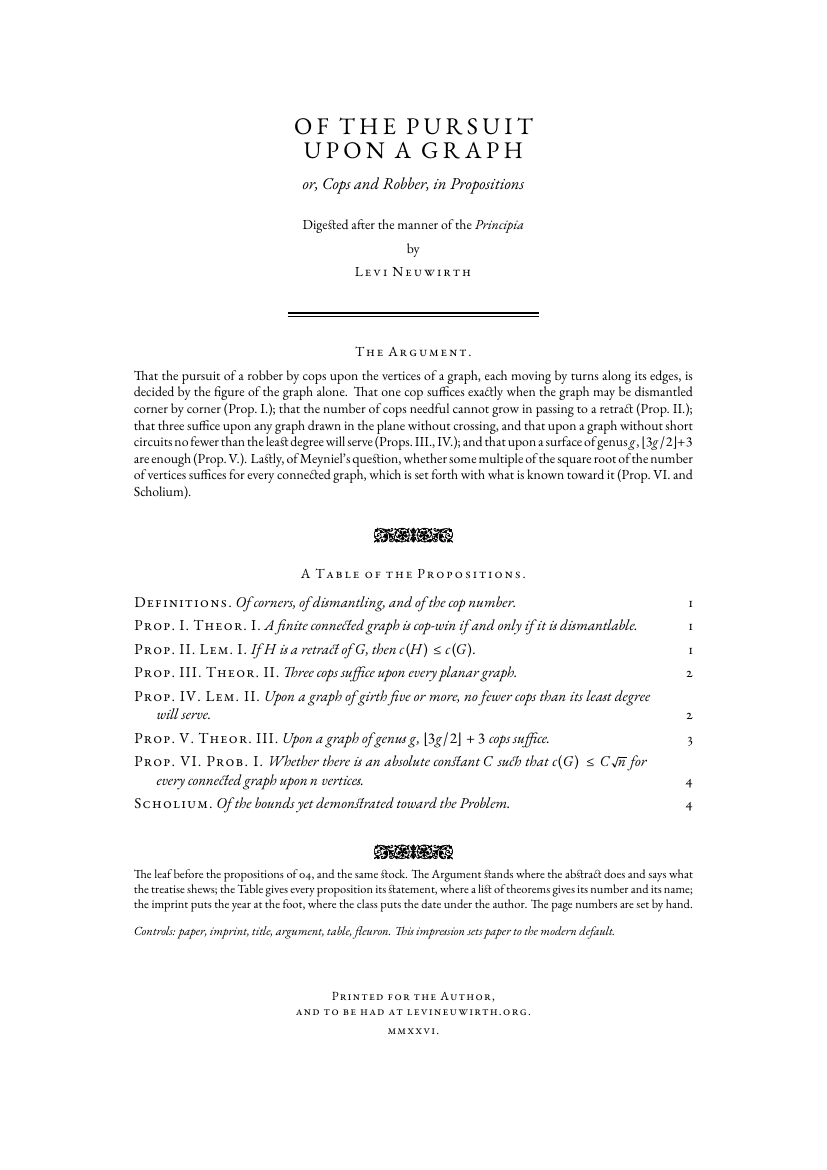
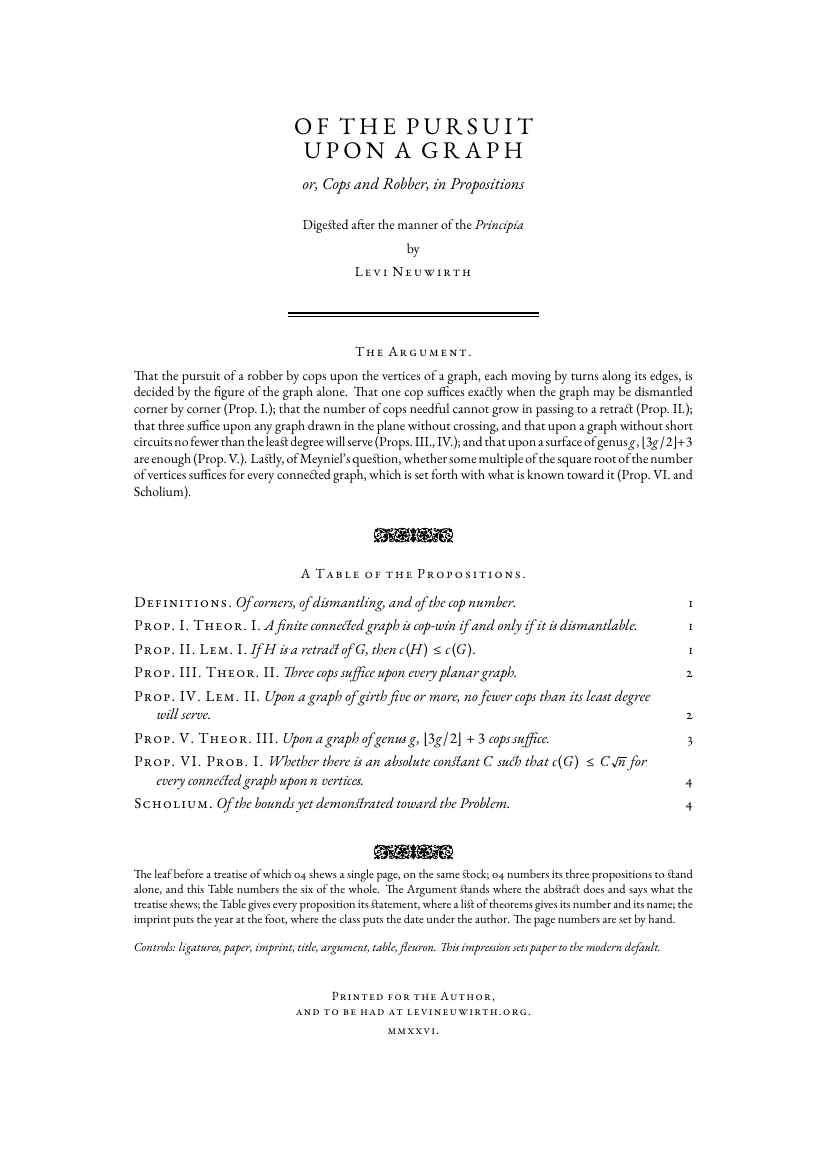
Review fixes: reconcile 07 with 04, make rare ligatures a control in 07
07's note claimed to be the leaf before 04 while its Table numbered six
propositions with the Problem at Prop. VI, where 04 has three with the
Problem at Prop. III. The note now says what is true: 04 shews one page
of the treatise and numbers its three to stand alone; the Table numbers
the six of the whole.

Ligatures=Rare was substrate in every plate and so leaked into the plain
variants; in 07, whose plain variant is meant to be exactly an article
front page, "List of Theorems" with an st-tie is not that. It is now the
`ligatures` control there, appended to the EB Garamond defaults with
\defaultfontfeatures+[EB Garamond]{Ligatures=Rare} so the Pagella
fallback is untouched. Confirmed in the fontspec log that only the two
EB Garamond instances receive it, and by image diff that the variant
differs.

HANDOFF.md: counts (52 PDFs, 45 ablations), the ligatures finding and
the 07/04 numbering note; the open question on Rare is answered by the
new control.

Changed region(s): [[0.1511, 0.7385, 0.8464, 0.8308]]

diff --git a/examples/07-front-matter.tex b/examples/07-front-matter.tex
@@ -49,10 +49,17 @@
 \usepackage[tracking=true,protrusion=false,expansion=false]{microtype}
 
 \defaultfontfeatures{Renderer=HarfBuzz}
+% The period's ct and st ties, live in EB Garamond; or the common ligatures
+% only, which is all a class asks of a font. Appended to this font's
+% defaults so the fallback branch below is untouched. The one place the
+% plain variant would otherwise not be exactly what article gives.
+\atlascontrol{ligatures}{
+  \defaultfontfeatures+[EB Garamond]{Ligatures=Rare}
+}{}
 \IfFontExistsTF{EB Garamond}{
   \setmainfont{EB Garamond}[
     Numbers={OldStyle,Proportional},
-    Ligatures={TeX,Common,Rare}
+    Ligatures={TeX,Common}
   ]
 }{
   \setmainfont{TeX Gyre Pagella}[
@@ -230,11 +237,13 @@ Scholium).
 
 \vspace{0.6em}
 \footnotesize\noindent
-The leaf before the propositions of 04, and the same stock. The Argument
-stands where the abstract does and says what the treatise shews; the Table
-gives every proposition its statement, where a list of theorems gives its
-number and its name; the imprint puts the year at the foot, where the class
-puts the date under the author. The page numbers are set by hand.
+The leaf before a treatise of which 04 shews a single page, on the same
+stock; 04 numbers its three propositions to stand alone, and this Table
+numbers the six of the whole. The Argument stands where the abstract does
+and says what the treatise shews; the Table gives every proposition its
+statement, where a list of theorems gives its number and its name; the
+imprint puts the year at the foot, where the class puts the date under the
+author. The page numbers are set by hand.
 
 \medskip\noindent\itshape\atlasstamp
 \normalfont\normalsize

diff --git a/HANDOFF.md b/HANDOFF.md
@@ -9,11 +9,13 @@ the lab has shown so far, what bit us, and what to do next.
 
 ## Where it stands
 
-`main` at `9e12c60`, remote
+`main` at the review-fixes commit after `9aa387f`, remote
 `ssh://git@git.levineuwirth.org:2222/neuwirth/latex-atlas.git`. Tree
-clean. Seven plates, 51 PDFs from `./build.sh --ablate` in ~50 s, every
-preview byte-reproducible from a clean build (verified this session:
-`rm -rf build && ./build.sh --ablate && ./preview.sh` left the tree clean).
+clean. Seven plates, 52 PDFs from `./build.sh --ablate` in ~50 s, every
+preview byte-reproducible from a clean build (verified twice on
+2026-09-15, once by the author's review session:
+`rm -rf build && ./build.sh --ablate && ./preview.sh && ./gallery.sh`
+left the tree clean).
 
 | plate | register | controls |
 |---|---|---|
@@ -23,12 +25,13 @@ preview byte-reproducible from a clean build (verified this session:
 | 04 propositions | functional | mathfont, paper, heads, qed, scholium |
 | 05 engraved graph plate | both | paper, taper, matching, stipple, frame, lettering |
 | 06 hand-press impression | costume | paper, jitter, inkspread, inking, laid, foxing |
-| 07 front matter | both | paper, imprint, title, argument, table, fleuron |
+| 07 front matter | both | ligatures, paper, imprint, title, argument, table, fleuron |
 
 Commits so far: `69a8fec` initial three plates; `01858bd` tint notes;
 `60f0dc2` the lab plus retrofits; `8171c63` plates 04–06; `af94c05` first
 handoff; `c5a3983` previews in EB Garamond and the retunes; `9e12c60`
-plate 07.
+plate 07; `9aa387f` second handoff; then the review fixes (07's note
+reconciled with 04, `ligatures` made a control in 07, this file).
 
 ## The decision
 
@@ -103,10 +106,14 @@ Look at `preview/ablate/` before building more; these are the findings.
   does not give without work.
 - **`Ligatures=Rare`** was set in every plate but inert under Pagella.
   EB Garamond has the `ct` and `st` ties, so they are now live in 01, 02,
-  04–07 (03 never asked for them): "connected", "demonstration",
-  "strike". Deliberate and kept — it is the period's face — but note
-  that a preprint `.sty` in the functional register may want `Rare`
-  off; that is a `.sty` decision, not a plate one.
+  04–06 (03 never asked for them): "connected", "demonstration",
+  "strike". Kept as substrate there — it is the period's face — but in
+  **07 it is a control** (`ligatures`, via
+  `\defaultfontfeatures+[EB Garamond]{Ligatures=Rare}` ahead of the
+  `\setmainfont`), because 07's plain variant is meant to be exactly an
+  `article` front page and "Liſt of Theorems" with an st-tie is not.
+  `07 --no-ligatures` is the comparison; a functional `.sty` will likely
+  want `Rare` off, and now there is a plate to point at.
 
 ## Re-read before touching the plates
 
@@ -156,7 +163,7 @@ Things that cost time once and should not cost it twice.
   renderings. Pagella stays as the fallback via `\IfFontExistsTF`; a
   machine without the fonts builds fine but its previews will differ
   from the committed ones, so don't commit previews from such a machine.
-- **`preview/` is ~6 MB** (45 ablations at 100 dpi). Kept full-size so
+- **`preview/` is ~6 MB** (45 ablations at 100 dpi, 52 PNGs in all). Kept full-size so
   clicking through is worth it. If the repo grows past ~15 plates, drop
   the ablations to 60 dpi in `preview.sh` (one number) and regenerate.
 - **`vintage-latex` lives in `~/scratch/tmp/vintage-latex`**, a scratch
@@ -176,7 +183,11 @@ Things that cost time once and should not cost it twice.
 - The Table lists eight lines: Definitions, six propositions (the three
   of 04 plus Aigner–Fromme's planar and girth results and Schröder's
   genus bound, all textbook), and the Scholium. Page numbers 1–4 are
-  invented; the treatise is not on the page.
+  invented; the treatise is not on the page. **07 and 04 therefore
+  disagree on numbering** — 04's Problem is Prop. III, the Table's is
+  Prop. VI — and the plate's note now says so: 04 numbers its three to
+  stand alone, the Table numbers the six of the whole. If 04 ever grows
+  to the full treatise, the two should be reconciled.
 - The imprint says "to be had at levineuwirth.org" — the period's "to be
   sold by", with the site standing in for the bookseller. It is the only
   URL in the repo and it is set as text, not a link.
@@ -226,7 +237,5 @@ Meyniel's conjecture) for that reason.
   to be tracked, and has been, twice.
 - Does the `.sty` want the lab controls too (so a preprint can be ablated),
   or is that lab-only machinery?
-- Does `Ligatures=Rare` belong in the functional register at all? The
-  lab can answer it: make it a control in 04 and look.
 - Should `build.sh` learn a two-pass mode? Bibliography (1) and a real
   theorem index both want it. The one-run rule has been cheap so far.

diff --git a/README.md b/README.md
@@ -32,7 +32,7 @@ toward reusable website preprint styles.
 | 04 | `04-propositions.tex` | theorem apparatus after the *Principia* against amsthm; a math font cut for the text against Latin Modern | mathfont, paper, heads, qed, scholium |
 | 05 | `05-engraved-graph-plate.tex` | an engraved plate of two graphs: tapered burin strokes, hatched spheres, a matching by line weight, frame and lettering | paper, taper, matching, stipple, frame, lettering |
 | 06 | `06-hand-press-impression.tex` | the hand press, counterfeited in a LuaTeX callback: baseline scatter, ink squash, uneven inking, laid paper, foxing | paper, jitter, inkspread, inking, laid, foxing |
-| 07 | `07-front-matter.tex` | the leaf before 04: a period title block against `\maketitle`, *The Argument* against the abstract, a Table of the Propositions with their statements against a list of theorems, fleurons, the imprint against the date | paper, imprint, title, argument, table, fleuron |
+| 07 | `07-front-matter.tex` | the leaf before 04: a period title block against `\maketitle`, *The Argument* against the abstract, a Table of the Propositions with their statements against a list of theorems, fleurons, the imprint against the date; the period's ct/st ties against the common ligatures | ligatures, paper, imprint, title, argument, table, fleuron |
 
 Every control has a *modern default*: what you get from the document
 class, the plotting library, or the engine when you do nothing. The
@@ -165,13 +165,18 @@ lower-case letters, digits and hyphens.
 
 | | | | |
 |:-:|:-:|:-:|:-:|
-| [![full](preview/07-front-matter.png)](examples/07-front-matter.tex) | ![without paper](preview/ablate/07-front-matter--no-paper.png) | ![without imprint](preview/ablate/07-front-matter--no-imprint.png) | ![without title](preview/ablate/07-front-matter--no-title.png) |
-| full | without paper | without imprint | without title |
+| [![full](preview/07-front-matter.png)](examples/07-front-matter.tex) | ![without ligatures](preview/ablate/07-front-matter--no-ligatures.png) | ![without paper](preview/ablate/07-front-matter--no-paper.png) | ![without imprint](preview/ablate/07-front-matter--no-imprint.png) |
+| full | without ligatures | without paper | without imprint |
 
 | | | | |
 |:-:|:-:|:-:|:-:|
-| ![without argument](preview/ablate/07-front-matter--no-argument.png) | ![without table](preview/ablate/07-front-matter--no-table.png) | ![without fleuron](preview/ablate/07-front-matter--no-fleuron.png) | ![plain](preview/ablate/07-front-matter--plain.png) |
-| without argument | without table | without fleuron | plain |
+| ![without title](preview/ablate/07-front-matter--no-title.png) | ![without argument](preview/ablate/07-front-matter--no-argument.png) | ![without table](preview/ablate/07-front-matter--no-table.png) | ![without fleuron](preview/ablate/07-front-matter--no-fleuron.png) |
+| without title | without argument | without table | without fleuron |
+
+| | | | |
+|:-:|:-:|:-:|:-:|
+| ![plain](preview/ablate/07-front-matter--plain.png) | | | |
+| plain | | | |
 
 <!-- lab:end -->
 
